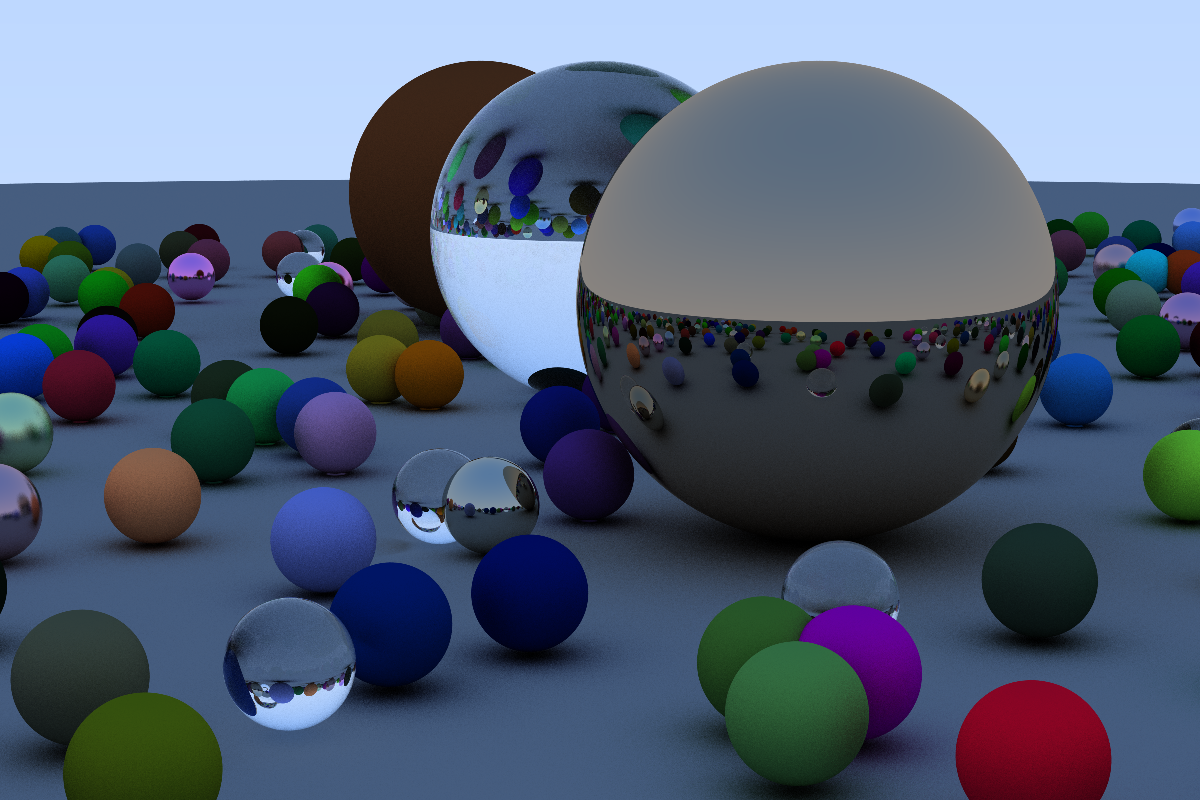
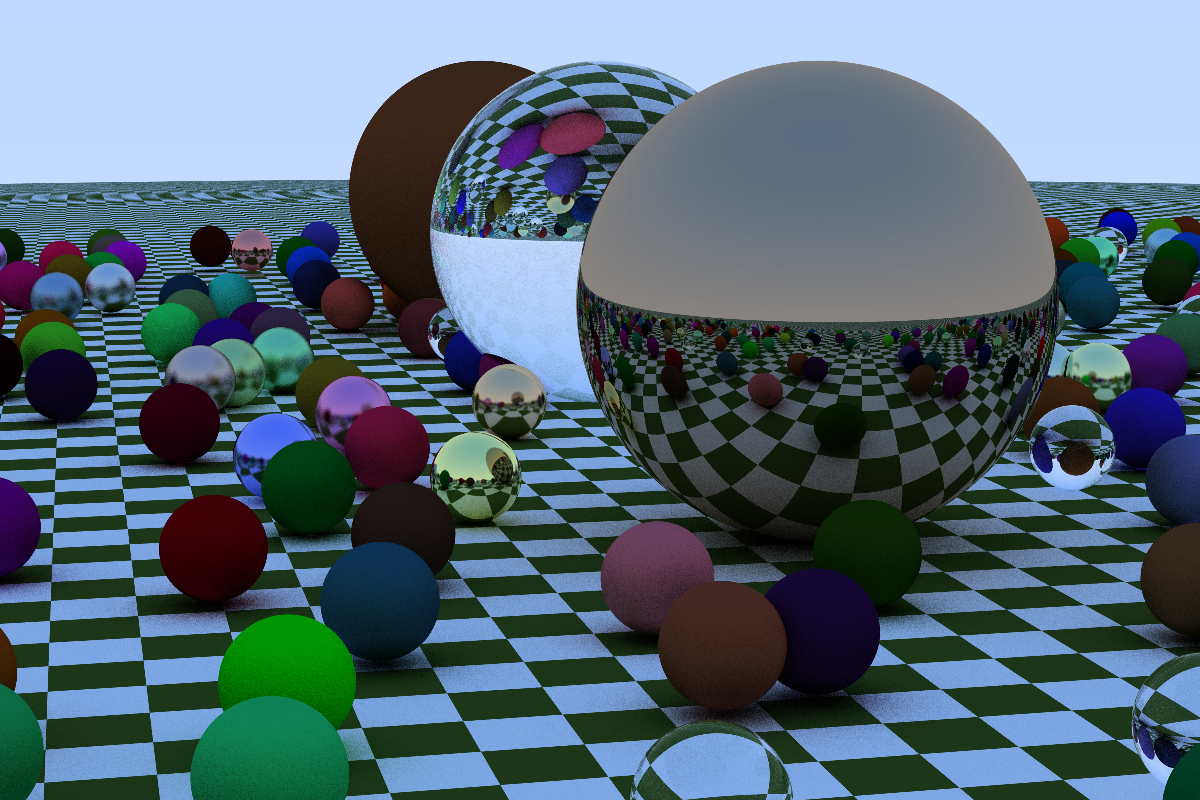
add texture support

diff --git a/Program.cs b/Program.cs
@@ -29,9 +29,11 @@ namespace SimplexRay
         {            
             ISceneGraph scene_graph = SceneGraphFactory.Create();
 
+            ITexture checker_texture = new CheckerTexture(new ConstantTexture(new Vector3(0.2f, 0.3f, 0.1f)), new ConstantTexture(new Vector3(0.9f, 0.9f, 0.9f)));
+
             IShapeNode sphere = scene_graph.AddShape(Shape.Sphere);
             sphere.Translation = new Vector3(0.0f, -1000.0f, 0.0f);
-            sphere.Material = new LambertianMaterial(new Vector3(0.5f, 0.5f, 0.5f));
+            sphere.Material = new LambertianMaterial(checker_texture);
             sphere.Scale = new Vector3(2000.0f);
 
             sphere = scene_graph.AddShape(Shape.Sphere);
@@ -41,12 +43,12 @@ namespace SimplexRay
             
             sphere = scene_graph.AddShape(Shape.Sphere);
             sphere.Translation = new Vector3(-4.0f, 1.0f, 0.0f);
-            sphere.Material = new LambertianMaterial(new Vector3(0.4f, 0.2f, 0.1f));
+            sphere.Material = new LambertianMaterial(new ConstantTexture(new Vector3(0.4f, 0.2f, 0.1f)));
             sphere.Scale = new Vector3(2.0f);
 
             sphere = scene_graph.AddShape(Shape.Sphere);
             sphere.Translation = new Vector3(4.0f, 1.0f, 0.0f);
-            sphere.Material = new MetalMaterial(new Vector3(0.7f, 0.6f, 0.5f), 0.0f);
+            sphere.Material = new MetalMaterial(new ConstantTexture(new Vector3(0.7f, 0.6f, 0.5f)), 0.0f);
             sphere.Scale = new Vector3(2.0f);
 
             for (int z = -10; z <= 10; ++z)
@@ -64,11 +66,11 @@ namespace SimplexRay
 
                         if (choose_material < 0.8f)
                         {
-                            ball.Material = new LambertianMaterial(new Vector3(MathHelper.RandomFloat() * MathHelper.RandomFloat(), MathHelper.RandomFloat() * MathHelper.RandomFloat(), MathHelper.RandomFloat() * MathHelper.RandomFloat()));
+                            ball.Material = new LambertianMaterial(new ConstantTexture(new Vector3(MathHelper.RandomFloat() * MathHelper.RandomFloat(), MathHelper.RandomFloat() * MathHelper.RandomFloat(), MathHelper.RandomFloat() * MathHelper.RandomFloat())));
                         }
                         else if (choose_material < 0.95f)
                         {
-                            ball.Material = new MetalMaterial(new Vector3(1.0f + MathHelper.RandomFloat(), 1.0f + MathHelper.RandomFloat(), 1.0f + MathHelper.RandomFloat()) * 0.5f, 0.5f * MathHelper.RandomFloat());
+                            ball.Material = new MetalMaterial(new ConstantTexture(new Vector3(1.0f + MathHelper.RandomFloat(), 1.0f + MathHelper.RandomFloat(), 1.0f + MathHelper.RandomFloat()) * 0.5f), 0.5f * MathHelper.RandomFloat());
                         }
                         else
                         {

diff --git a/scene_graph/MaterialScatter.cs b/scene_graph/MaterialScatter.cs
@@ -16,8 +16,8 @@ namespace SimplexRay
         private static void Init()
         {
             material_scatters = new Dictionary<string, IMaterialScatter>();
-            AddScatter(new LambertianMaterial(Vector3.Zero), new LambertianScatter());
-            AddScatter(new MetalMaterial(Vector3.Zero, 0.0f), new MetalScatter());
+            AddScatter(new LambertianMaterial(null), new LambertianScatter());
+            AddScatter(new MetalMaterial(null, 0.0f), new MetalScatter());
             AddScatter(new DielectricMaterial(0.0f), new DielectricScatter());
         }
 
@@ -49,7 +49,7 @@ namespace SimplexRay
 
             Vector3 direction = hit_data.Normal + MathHelper.RandomInUnitSPhere();
             scattered = new Ray(hit_data.Point, direction);
-            attenuation = lambertian_material.Albedo;
+            attenuation = lambertian_material.Albedo.Value(hit_data.UV.X, hit_data.UV.Y, hit_data.Point);
 
             return true;
         }
@@ -63,7 +63,7 @@ namespace SimplexRay
 
             Vector3 reflected = Vector3.Reflect(ray.Direction, hit_data.Normal);
             scattered = new Ray(hit_data.Point, reflected + metal_material.Fuzz * MathHelper.RandomInUnitSPhere());
-            attenuation = metal_material.Albedo;
+            attenuation = metal_material.Albedo.Value(hit_data.UV.X, hit_data.UV.Y, hit_data.Point);
 
             return Vector3.Dot(scattered.Direction, hit_data.Normal) > 0;
         }

diff --git a/scene_graph/Textures.cs b/scene_graph/Textures.cs
@@ -1,0 +1,39 @@
+using System;
+using System.Numerics;
+
+namespace SimplexRay
+{
+    public class ConstantTexture : ITexture
+    {
+        public Vector3 Color;
+
+        public ConstantTexture(Vector3 color)
+        {
+            Color = color;
+        }
+
+        public Vector3 Value(float u, float v, Vector3 point)
+        {
+            return Color;
+        }
+    }
+
+    public class CheckerTexture : ITexture
+    {
+        public ITexture OddTexture = null;
+        public ITexture EvenTexture = null;
+
+        public CheckerTexture(ITexture odd_texture, ITexture even_texture)
+        {
+            OddTexture = odd_texture;
+            EvenTexture = even_texture;
+        }
+
+        public Vector3 Value(float u, float v, Vector3 point)
+        {
+            float sines = (float)(Math.Sin(10.0f * point.X) * Math.Sin(10.0f * point.Y) * Math.Sin(10.0f * point.Z));
+
+            return sines < 0.0f ? OddTexture.Value(u, v, point) : EvenTexture.Value(u, v, point);
+        }
+    }
+}

diff --git a/scene_graph/Materials.cs b/scene_graph/Materials.cs
@@ -5,9 +5,9 @@ namespace SimplexRay
 {
     public class LambertianMaterial : IMaterial
     {
-        public Vector3 Albedo;
+        public ITexture Albedo;
 
-        public LambertianMaterial(Vector3 albedo)
+        public LambertianMaterial(ITexture albedo)
         {
             Albedo = albedo;
         }
@@ -17,10 +17,10 @@ namespace SimplexRay
 
     public class MetalMaterial : IMaterial
     {
-        public Vector3 Albedo;
+        public ITexture Albedo;
         public float Fuzz;
 
-        public MetalMaterial(Vector3 albedo, float fuzz = 0.3f)
+        public MetalMaterial(ITexture albedo, float fuzz = 0.3f)
         {
             Albedo = albedo;
             Fuzz = fuzz;

diff --git a/scene_graph/ShapeNodes.cs b/scene_graph/ShapeNodes.cs
@@ -23,6 +23,11 @@ namespace SimplexRay
             hit_data.Normal = (hit_data.Point - Translation) / Radius;
             hit_data.Material = Material;
 
+            float phi = (float)Math.Atan2(hit_data.Point.Z, hit_data.Point.X);
+            float theta = (float)Math.Asin(hit_data.Point.Y);
+            hit_data.UV.X = 1 - (phi + (float)Math.PI) / (float)(2.0f * Math.PI);
+            hit_data.UV.Y = (theta + (float)Math.PI / 2.0f) / (float)Math.PI;
+
             return true;
         }
 

diff --git a/scene_graph/ISceneGraph.cs b/scene_graph/ISceneGraph.cs
@@ -12,6 +12,11 @@ namespace SimplexRay
         string TypeName { get; }
     }
 
+    public interface ITexture
+    {
+        Vector3 Value(float u, float v, Vector3 point);
+    }
+
     public interface ISceneNode
     {
         Vector3 Translation { get; set; }

diff --git a/scene_graph/Math.cs b/scene_graph/Math.cs
@@ -28,6 +28,8 @@ namespace SimplexRay
 
         public Vector3 Normal;
 
+        public Vector2 UV;
+        
         public IMaterial Material;
     }
 
